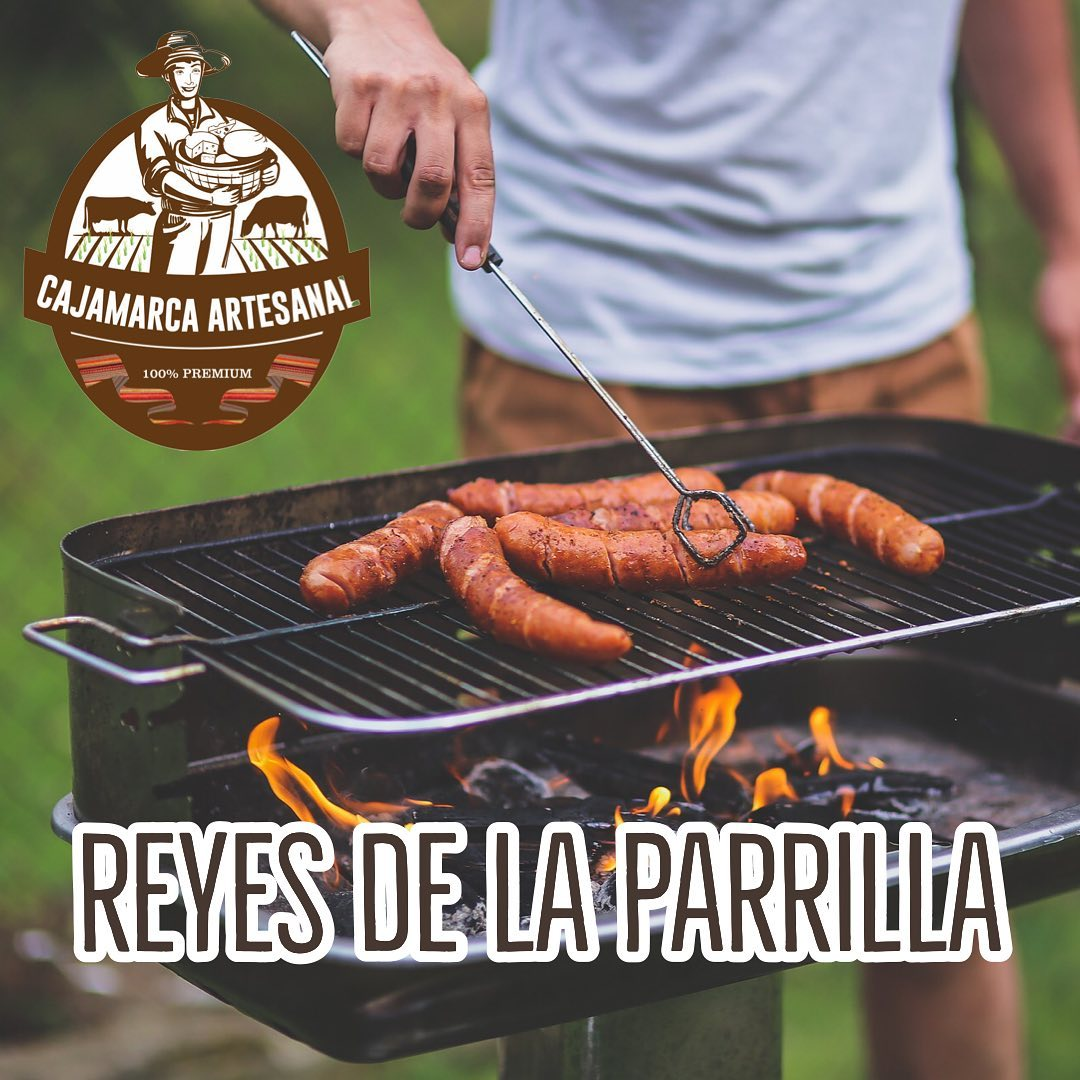
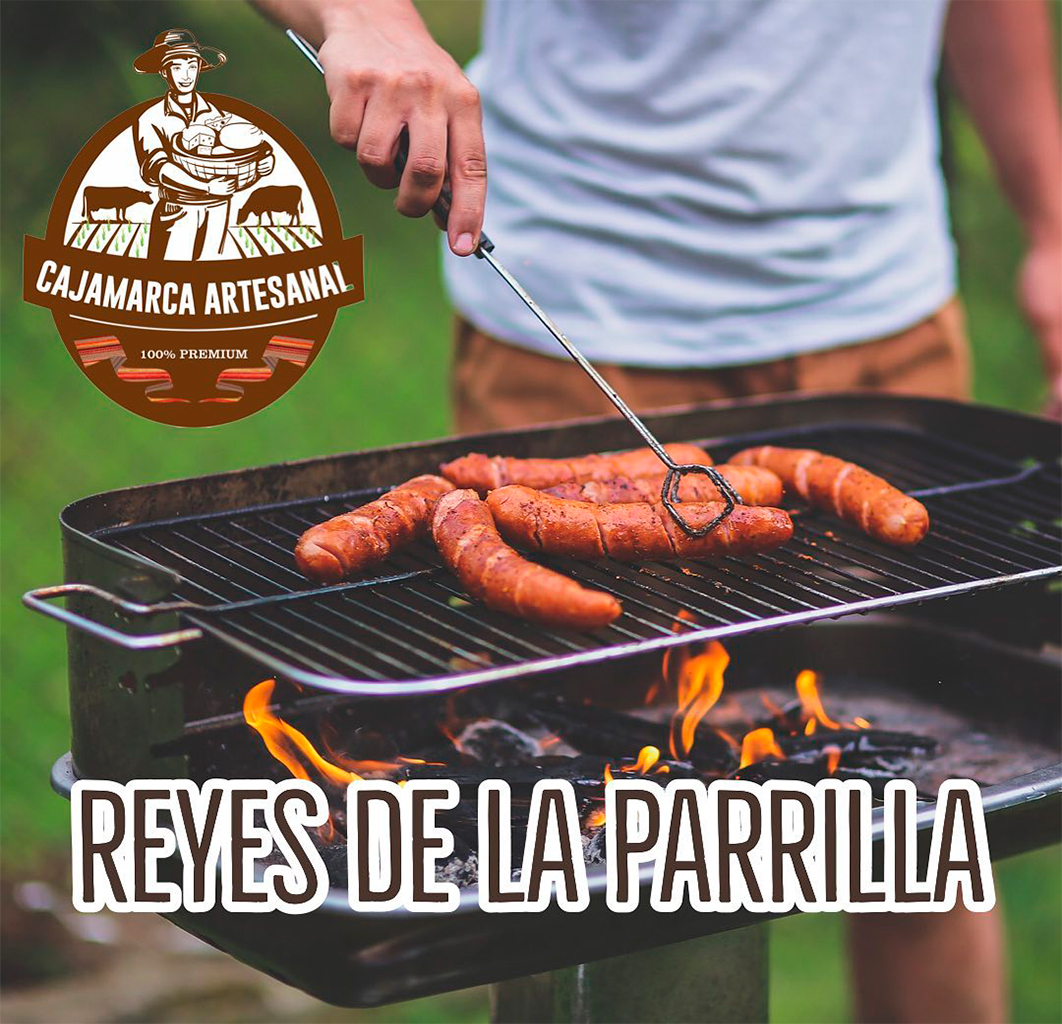
carrusel agregado

diff --git a/index.html b/index.html
@@ -52,7 +52,7 @@
                 <div id="carouselExampleAutoplaying" class="carousel slide" data-bs-ride="carousel">
                     <div class="carousel-inner">
                         <div class="carousel-item active">
-                            <img class=" img-fluid" src="./img/imghome.jpeg" class="d-block w-100" alt="imghome">
+                            <img class=" img-fluid" src="./img/imghome.jpg" class="d-block w-100" alt="imghome">
                         </div>
                         <div class="carousel-item">
                             <img class=" img-fluid" src="./img/index2.jpg" class="d-block w-100" alt="index2">
@@ -83,9 +83,9 @@
                     <h2 class="h5 mb-3 mb-md-0">Derechos Reservados</h2>
                 </div>
                 <div class="col-md-6 text-center text-md-end">
-                    <a href="https://www.facebook.com/CajamarcaArtesanal"><img class="iconos me-2" src="./img/facebookicon.png" alt="Facebook" /></a>
-                    <a href="https://www.instagram.com/cajamarca_artesanal/"><img class="iconos me-2" src="./img/instagramicon.png" alt="Instagram" /></a>
-                    <a href="https://wa.me/51953700881"><img class="iconos" src="./img/whatsappicon.png" alt="Whatsapp" /></a>
+                    <a href="https://www.facebook.com/CajamarcaArtesanal" target="_blank"><img class="iconos me-2" src="./img/facebookicon.png" alt="Facebook" /></a>
+                    <a href="https://www.instagram.com/cajamarca_artesanal/" target="_blank"><img class="iconos me-2" src="./img/instagramicon.png" alt="Instagram" /></a>
+                    <a href="https://wa.me/51953700881" target="_blank"><img class="iconos" src="./img/whatsappicon.png" alt="Whatsapp" /></a>
                 </div>
             </div>
         </div>

diff --git a/pages/galeria.html b/pages/galeria.html
@@ -31,8 +31,8 @@
                         <li class="nav-item">
                             <a class="nav-link" href="./productos.html">Productos</a>
                         </li>
-                        <li class="nav-item active activo">
-                            <a class="nav-link" href="./galeria.html">Galeria</a>
+                        <li class="nav-item">
+                            <a class="nav-link active activo" href="./galeria.html">Galeria</a>
                         </li>
                         <li class="nav-item">
                             <a class="nav-link" href="./quienes_somos.html">Nosotros</a>
@@ -80,11 +80,11 @@
                     <h2 class="h5 mb-3 mb-md-0">Derechos Reservados</h2>
                 </div>
                 <div class="col-md-6 text-center text-md-end">
-                    <a href="https://www.facebook.com/CajamarcaArtesanal"><img class="iconos me-2"
+                    <a href="https://www.facebook.com/CajamarcaArtesanal" target="_blank"><img class="iconos me-2"
                             src="../img/facebookicon.png" alt="Facebook" /></a>
-                    <a href="https://www.instagram.com/cajamarca_artesanal/"><img class="iconos me-2"
+                    <a href="https://www.instagram.com/cajamarca_artesanal/" target="_blank"><img class="iconos me-2"
                             src="../img/instagramicon.png" alt="Instagram" /></a>
-                    <a href="https://wa.me/51953700881"><img class="iconos" src="../img/whatsappicon.png"
+                    <a href="https://wa.me/51953700881" target="_blank"><img class="iconos" src="../img/whatsappicon.png"
                             alt="Whatsapp" /></a>
                 </div>
             </div>

diff --git a/pages/contacto.html b/pages/contacto.html
@@ -87,11 +87,11 @@
                     <h2 class="h5 mb-3 mb-md-0">Derechos Reservados</h2>
                 </div>
                 <div class="col-md-6 text-center text-md-end">
-                    <a href="https://www.facebook.com/CajamarcaArtesanal"><img class="iconos me-2"
+                    <a href="https://www.facebook.com/CajamarcaArtesanal" target="_blank"><img class="iconos me-2"
                             src="../img/facebookicon.png" alt="Facebook" /></a>
-                    <a href="https://www.instagram.com/cajamarca_artesanal/"><img class="iconos me-2"
+                    <a href="https://www.instagram.com/cajamarca_artesanal/" target="_blank"><img class="iconos me-2"
                             src="../img/instagramicon.png" alt="Instagram" /></a>
-                    <a href="https://wa.me/51953700881"><img class="iconos" src="../img/whatsappicon.png"
+                    <a href="https://wa.me/51953700881" target="_blank"><img class="iconos" src="../img/whatsappicon.png"
                             alt="Whatsapp" /></a>
                 </div>
             </div>

diff --git a/pages/productos.html b/pages/productos.html
@@ -88,11 +88,11 @@
                     <h2 class="h5 mb-3 mb-md-0">Derechos Reservados</h2>
                 </div>
                 <div class="col-md-6 text-center text-md-end">
-                    <a href="https://www.facebook.com/CajamarcaArtesanal"><img class="iconos me-2"
+                    <a href="https://www.facebook.com/CajamarcaArtesanal" target="_blank"><img class="iconos me-2"
                             src="../img/facebookicon.png" alt="Facebook" /></a>
-                    <a href="https://www.instagram.com/cajamarca_artesanal/"><img class="iconos me-2"
+                    <a href="https://www.instagram.com/cajamarca_artesanal/" target="_blank"><img class="iconos me-2"
                             src="../img/instagramicon.png" alt="Instagram" /></a>
-                    <a href="https://wa.me/51953700881"><img class="iconos" src="../img/whatsappicon.png"
+                    <a href="https://wa.me/51953700881" target="_blank"><img class="iconos" src="../img/whatsappicon.png"
                             alt="Whatsapp" /></a>
                 </div>
             </div>

diff --git a/pages/quienes_somos.html b/pages/quienes_somos.html
@@ -68,11 +68,11 @@
                     <h2 class="h5 mb-3 mb-md-0">Derechos Reservados</h2>
                 </div>
                 <div class="col-md-6 text-center text-md-end">
-                    <a href="https://www.facebook.com/CajamarcaArtesanal"><img class="iconos me-2"
+                    <a href="https://www.facebook.com/CajamarcaArtesanal" target="_blank"><img class="iconos me-2"
                             src="../img/facebookicon.png" alt="Facebook" /></a>
-                    <a href="https://www.instagram.com/cajamarca_artesanal/"><img class="iconos me-2"
+                    <a href="https://www.instagram.com/cajamarca_artesanal/" target="_blank"><img class="iconos me-2"
                             src="../img/instagramicon.png" alt="Instagram" /></a>
-                    <a href="https://wa.me/51953700881"><img class="iconos" src="../img/whatsappicon.png"
+                    <a href="https://wa.me/51953700881" target="_blank"><img class="iconos" src="../img/whatsappicon.png"
                             alt="Whatsapp" /></a>
                 </div>
             </div>

diff --git a/styles/index_estilos.css b/styles/index_estilos.css
@@ -4,8 +4,16 @@
     background-color: #fbfff1;
 }
 
+.container{
+    justify-content: center;
+}
+
 h1{
     text-align: center;
+}
+
+.carousel-inner {
+    max-width: 1062px;
 }
 
 .flechita{
